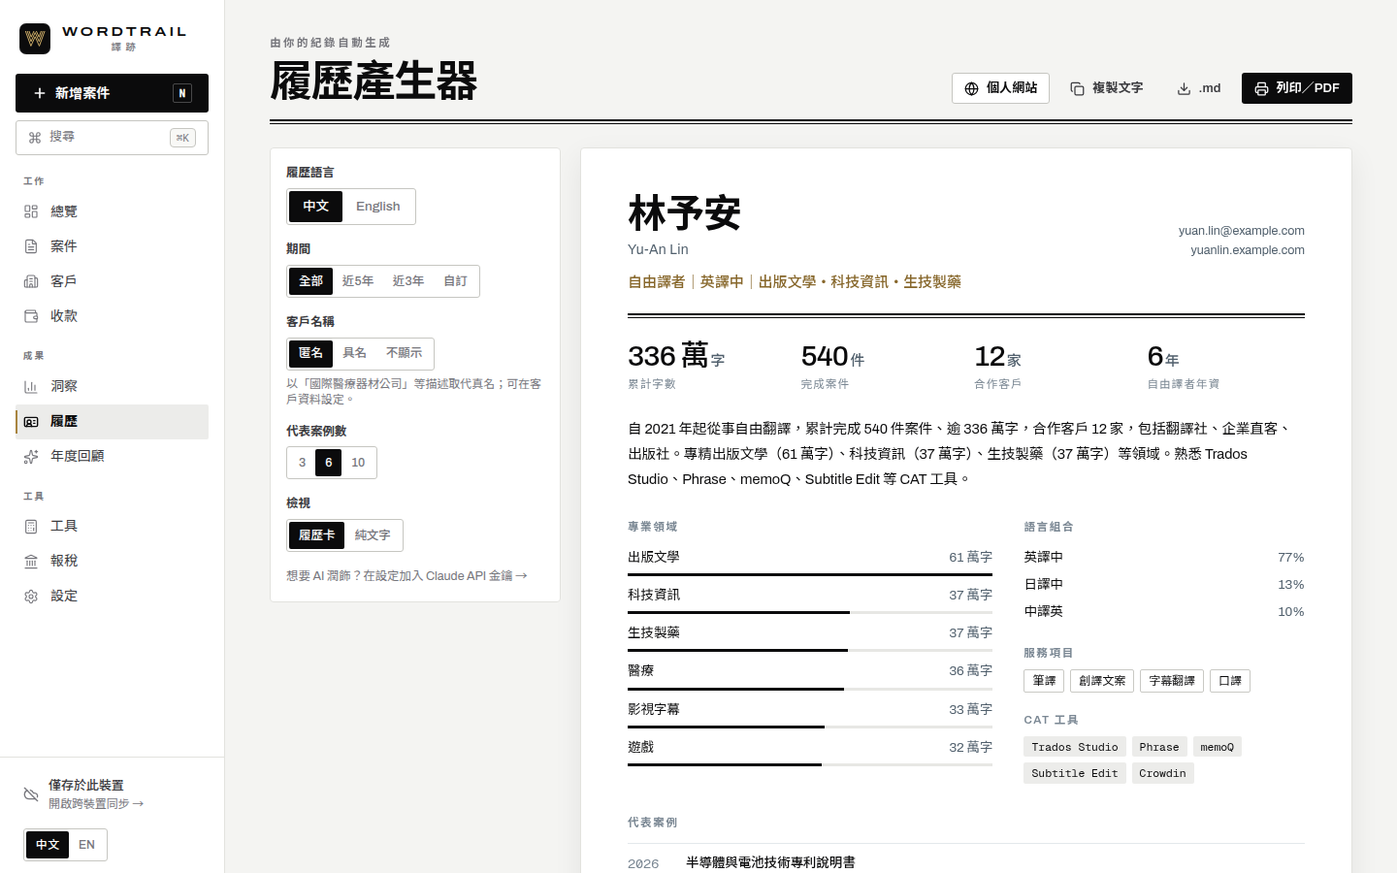
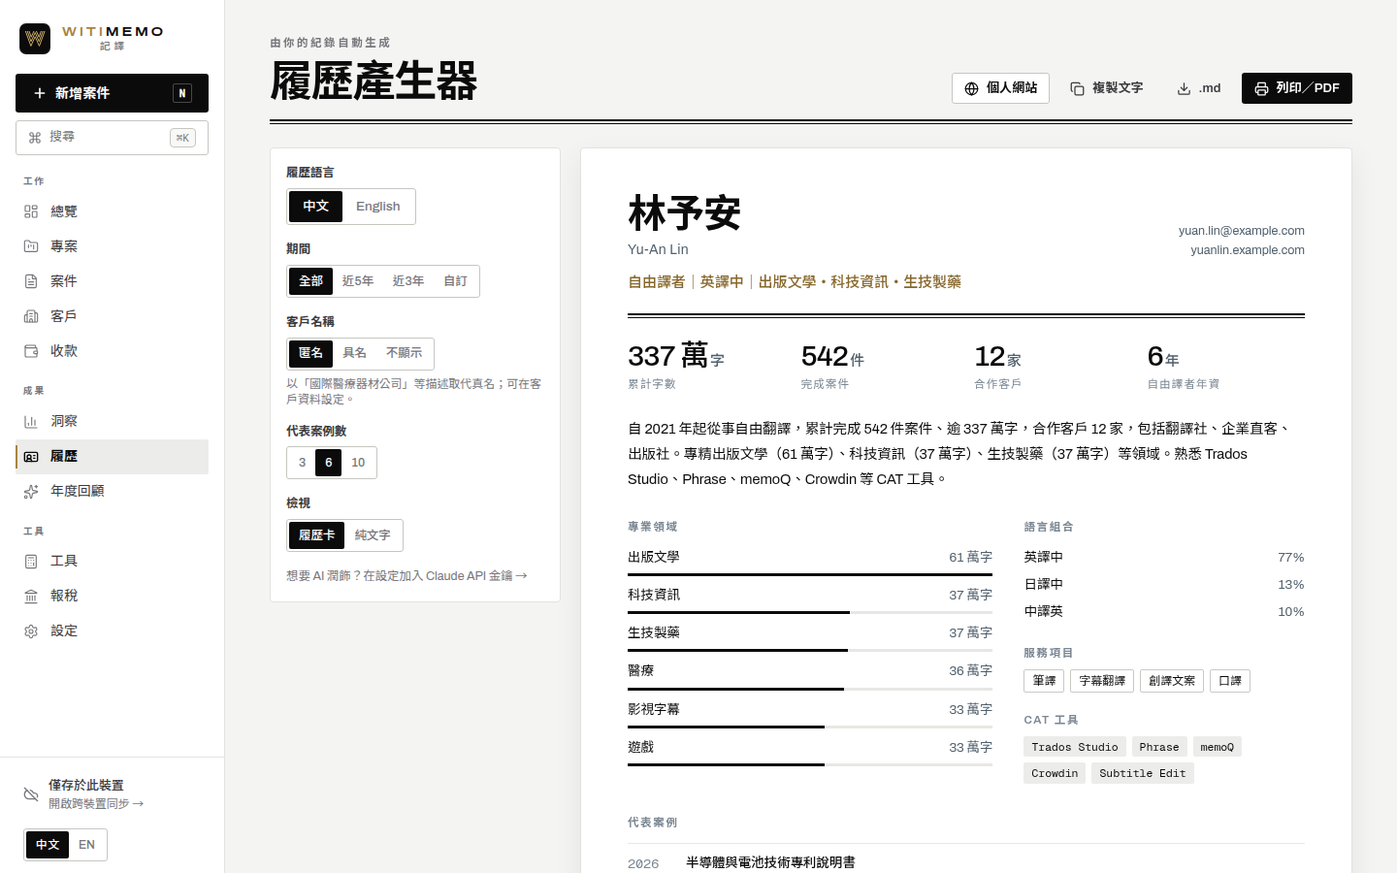
Rename the app to 記譯 Witimemo
Witimemo stands for Works in Translation & Interpretation, and memo
matches 記 in the Chinese name. The name is spelled plainly in text and
drawn as a two-tone wordmark, WITI in gold and MEMO in ink, in the
sidebar, opening doors, onboarding, invoices, year in review and its
share card. The W mark is unchanged.

The page title and the iOS home-screen name follow the interface
language. Stored identifiers keep the old name (the IndexedDB database,
the backup and sync envelope markers, the sync gist file and calendar
event IDs) so existing data, backups, sync and calendar subscriptions
keep working.

Screenshots, the social preview and the README are regenerated.

Claude-Session: https://claude.ai/code/session_01BSnYqFpE9myNxdJxNHHP4C

diff --git a/src/pages/Wrapped.tsx b/src/pages/Wrapped.tsx
@@ -10,7 +10,7 @@ import { money, num, pct } from '../ui/format';
 import { cx } from '../ui/kit';
 import { useUI } from '../ui/store';
 import { Medallion, SunburstRays } from '../app/Stamps';
-import { BRAND_GOLD, W_LINES, WGlyph } from '../app/Logo';
+import { BRAND_GOLD, BRAND_ZH, BrandName, W_LINES, WGlyph } from '../app/Logo';
 import { downloadFile } from '../features/download';
 
 const PERSONA: Record<Persona, { zh: string; en: string; zhBody: string; enBody: string }> = {
@@ -245,7 +245,7 @@ export function Wrapped() {
     // 0 cover
     <div key="c" className="flex h-full flex-col items-center justify-center text-center">
       <In className="relative grid place-items-center">
-        <Medallion top={`WORDTRAIL · ${year}`} center="" bottom={tx('年度回顧', 'YEAR IN REVIEW')} color={BRAND_GOLD} size={196} rays={72} />
+        <Medallion top={`WITIMEMO · ${year}`} center="" bottom={tx('年度回顧', 'YEAR IN REVIEW')} color={BRAND_GOLD} size={196} rays={72} />
         <WGlyph size={62} color={BRAND_GOLD} className="absolute" />
       </In>
       <In d={250}>
@@ -307,7 +307,7 @@ export function Wrapped() {
     // 3 persona
     <div key="p" className="flex h-full flex-col justify-center">
       <In className="flex items-center gap-4">
-        <Medallion top={tx('譯者人格', 'TRANSLATOR TYPE')} center={String(year)} bottom="WORDTRAIL" color={BRAND_GOLD} size={92} rays={40} />
+        <Medallion top={tx('譯者人格', 'TRANSLATOR TYPE')} center={String(year)} bottom="WITIMEMO" color={BRAND_GOLD} size={92} rays={40} />
         {r.topDomain && (
           <p className="text-[16px] leading-snug text-ink-2">
             {tx(`你最常翻譯的是「${domainLabel(r.topDomain.key, 'zh-TW')}」，佔全年 ${pct(r.topDomain.share)}`, `Your top field was ${domainLabel(r.topDomain.key, 'en')}: ${pct(r.topDomain.share)} of your words`)}
@@ -424,7 +424,7 @@ export function Wrapped() {
         <div className="relative flex items-center justify-between">
           <span className="flex items-center gap-2.5">
             <WGlyph size={22} color={BRAND_GOLD} />
-            <span className="font-wide text-[10px] tracking-[0.3em]">Wordtrail</span>
+            <BrandName gold={BRAND_GOLD} className="font-wide text-[10px] tracking-[0.3em]" />
           </span>
           <span className="font-wide text-[10px] tracking-[0.3em] text-gold">{year}</span>
         </div>
@@ -489,7 +489,7 @@ export function Wrapped() {
           <span className="flex items-center gap-2.5">
             <WGlyph size={18} color={BRAND_GOLD} stroke={3.6} />
             <span className="font-wide text-[10px] tracking-[0.3em] text-ink-2">
-              Wordtrail <span className="text-gold">· {year}</span>
+              <BrandName gold={BRAND_GOLD} /> <span className="text-gold">· {year}</span>
             </span>
           </span>
           <div className="flex gap-1">
@@ -536,7 +536,7 @@ export function Wrapped() {
               className={goldBtn}
               onClick={async () => {
                 const blob = await (await fetch(shareUrl)).blob();
-                void downloadFile(`wordtrail-${year}.png`, blob, 'image/png');
+                void downloadFile(`witimemo-${year}.png`, blob, 'image/png');
               }}
             >
               <Download size={17} /> {tx('下載／分享', 'Save / share')}
@@ -673,11 +673,11 @@ async function renderShareCard(r: YearReview, o: { year: number; persona: string
   c.width = W;
   c.height = H;
   const g = c.getContext('2d')!;
-  const zhText = o.persona + o.domain + o.name + '譯跡我的翻譯足跡個字案件客戶工作日主力領域譯者人格年度回顧';
+  const zhText = o.persona + o.domain + o.name + BRAND_ZH + '我的翻譯足跡個字案件客戶工作日主力領域譯者人格年度回顧';
   try {
     await Promise.all([
-      document.fonts.load('500 80px "Archivo"', 'WORDTRAIL0123456789,.'),
-      document.fonts.load('600 80px "Archivo"', 'WORDTRAIL'),
+      document.fonts.load('500 80px "Archivo"', 'WITIMEO0123456789,.'),
+      document.fonts.load('600 80px "Archivo"', 'WITIMEO'),
       document.fonts.load('500 60px "Noto Sans TC"', zhText),
       document.fonts.load('700 60px "Noto Sans TC"', zhText),
     ]);
@@ -697,6 +697,13 @@ async function renderShareCard(r: YearReview, o: { year: number; persona: string
     g.textAlign = opts.align ?? 'left';
     style(opts.stretch ?? 'normal', opts.spacing ?? 0);
     g.fillText(s, x, y);
+  };
+  /** The two-tone name; returns where it ends. */
+  const brand = (x: number, y: number, font: string, spacing: number, gold: string, ink: string) => {
+    text('WITI', x, y, font, gold, { stretch: 'expanded', spacing });
+    const x2 = x + g.measureText('WITI').width;
+    text('MEMO', x2, y, font, ink, { stretch: 'expanded', spacing });
+    return x2 + g.measureText('MEMO').width;
   };
   const hline = (y: number, w = 1.5, color = 'rgba(255,255,255,0.18)') => {
     g.fillStyle = color;
@@ -744,8 +751,8 @@ async function renderShareCard(r: YearReview, o: { year: number; persona: string
     g.stroke();
   }
   g.restore();
-  text('WORDTRAIL', M + 104, 132, `600 26px ${sans}`, '#f2f2ef', { stretch: 'expanded', spacing: 7 });
-  text('譯跡', M + 104, 166, `500 20px ${sans}`, 'rgba(242,242,239,0.55)', { spacing: 10 });
+  brand(M + 104, 132, `600 26px ${sans}`, 7, GOLD, '#f2f2ef');
+  text(BRAND_ZH, M + 104, 166, `500 20px ${sans}`, 'rgba(242,242,239,0.55)', { spacing: 10 });
   text(String(o.year), W - M, 132, `600 26px ${sans}`, GOLD, { stretch: 'expanded', spacing: 12, align: 'right' });
   text(tx('年度回顧', 'YEAR IN REVIEW'), W - M, 166, `600 17px ${sans}`, 'rgba(242,242,239,0.55)', { stretch: 'expanded', spacing: 5, align: 'right' });
 
@@ -791,9 +798,10 @@ async function renderShareCard(r: YearReview, o: { year: number; persona: string
   if (o.domain) text(tx(`主力領域：${o.domain}`, `Top field: ${o.domain}`), M, 1162, `500 32px ${sans}`, 'rgba(242,242,239,0.82)');
 
   // footer
-  text('WORDTRAIL · 譯跡', M, H - 86, `600 20px ${sans}`, 'rgba(242,242,239,0.45)', { stretch: 'expanded', spacing: 6 });
+  const bx = brand(M, H - 86, `600 20px ${sans}`, 6, 'rgba(212,179,108,0.7)', 'rgba(242,242,239,0.45)');
+  text(` · ${BRAND_ZH}`, bx, H - 86, `600 20px ${sans}`, 'rgba(242,242,239,0.45)', { stretch: 'expanded', spacing: 6 });
   // the mark's three strokes, run out as speed lines
-  const tw = g.measureText('WORDTRAIL · 譯跡').width;
+  const tw = bx - M + g.measureText(` · ${BRAND_ZH}`).width;
   g.fillStyle = 'rgba(212,179,108,0.6)';
   [-102, -94, -86].forEach((y, k) => g.fillRect(M + tw + 28, H + y - 7, W - M * 2 - tw - 28, k === 1 ? 2 : 1));
   return c.toDataURL('image/png');

diff --git a/src/pages/Settings.tsx b/src/pages/Settings.tsx
@@ -114,7 +114,7 @@ export function SettingsPage({ section }: { section?: string }) {
 
   const exportJSON = async () => {
     const b = await exportBackup();
-    await downloadFile(`wordtrail-backup-${today}.json`, JSON.stringify(b), 'application/json');
+    await downloadFile(`witimemo-backup-${today}.json`, JSON.stringify(b), 'application/json');
   };
 
   const importJSON = async (f: File) => {
@@ -138,7 +138,7 @@ export function SettingsPage({ section }: { section?: string }) {
       } else await importBackup(data, 'merge');
       toast(tx(`已匯入 ${data.data.jobs.length} 個案件`, `Imported ${data.data.jobs.length} jobs`));
     } catch {
-      toast(tx('這不是譯跡的備份檔', 'That is not a Wordtrail backup file'));
+      toast(tx('這不是記譯的備份檔', 'That is not a Witimemo backup file'));
     }
   };
 
@@ -146,7 +146,7 @@ export function SettingsPage({ section }: { section?: string }) {
     const active = jobs.filter((j) => (j.status === 'active' || j.status === 'quote') && j.dueAt);
     if (!active.length) return toast(tx('目前沒有有截止日的案件', 'No upcoming deadlines'));
     void downloadFile(
-      `wordtrail-deadlines-${today}.ics`,
+      `witimemo-deadlines-${today}.ics`,
       buildICS(active.map((j) => ({ uid: j.id, title: tx(`交稿：${j.title}`, `Due: ${j.title}`), when: j.dueAt!, description: j.clientId ? clientMap.get(j.clientId)?.name : undefined }))),
       'text/calendar',
     );
@@ -413,12 +413,12 @@ export function SettingsPage({ section }: { section?: string }) {
           )}
         </Card>
 
-        <Card id="install" title={tx('安裝到手機與電腦', 'Install on phone and computer')} desc={tx('譯跡是可安裝的網頁 App：離線也能用，桌面與主畫面都有圖示。', 'Wordtrail is an installable web app: it works offline and gets its own icon.')}>
+        <Card id="install" title={tx('安裝到手機與電腦', 'Install on phone and computer')} desc={tx('記譯是可安裝的網頁 App：離線也能用，桌面與主畫面都有圖示。', 'Witimemo is an installable web app: it works offline and gets its own icon.')}>
           {install.installed ? (
             <p className="text-[14px] text-good">{tx('已安裝為 App ✓', 'Installed as an app ✓')}</p>
           ) : install.prompt ? (
             <Button variant="primary" icon={<Smartphone size={16} />} onClick={() => void install.prompt!.prompt()}>
-              {tx('安裝譯跡', 'Install Wordtrail')}
+              {tx('安裝記譯', 'Install Witimemo')}
             </Button>
           ) : null}
           <ul className="mt-3 grid gap-3 text-[13.5px] leading-relaxed text-ink-2 sm:grid-cols-3">
@@ -440,9 +440,12 @@ export function SettingsPage({ section }: { section?: string }) {
           </ul>
         </Card>
 
-        <Card id="about" title={tx('關於譯跡', 'About Wordtrail')}>
+        <Card id="about" title={tx('關於記譯', 'About Witimemo')}>
           <div className="grid gap-4 text-[13.5px] leading-relaxed text-ink-2 sm:grid-cols-2">
             <div>
+              <p className="mb-2 font-medium text-ink">
+                記譯 Witimemo <span className="font-normal text-muted">· Works in Translation &amp; Interpretation</span>
+              </p>
               <p>{tx('為自由譯者設計的工作紀錄 App。所有資料預設只存在你的裝置；開啟同步後以端對端加密存在你自己的 GitHub。沒有追蹤、沒有廣告、沒有伺服器。', 'A work log designed for freelance translators. Data lives on your device by default; with sync it is end-to-end encrypted in your own GitHub account. No tracking, no ads, no servers.')}</p>
               <p className="mt-2 font-mono text-[12px] text-muted">v{__APP_VERSION__}</p>
             </div>

diff --git a/src/pages/Onboarding.tsx b/src/pages/Onboarding.tsx
@@ -8,7 +8,7 @@ import { setLang, tx } from '../i18n';
 import { Button, Field, Input, Segmented } from '../ui/kit';
 import { useUI } from '../ui/store';
 import { CurrencySelect } from '../features/common';
-import { BRAND_GOLD, WGlyph } from '../app/Logo';
+import { BRAND_GOLD, BRAND_NAME, BRAND_TAGLINE, BRAND_ZH, BrandName, WGlyph } from '../app/Logo';
 import { SunburstRays } from '../app/Stamps';
 
 export function Onboarding() {
@@ -55,13 +55,16 @@ export function Onboarding() {
         <div className="relative flex items-center gap-3">
           <WGlyph size={34} color={BRAND_GOLD} />
           <span className="leading-none">
-            <span className="font-wide block text-[13px] tracking-[0.26em]">Wordtrail</span>
-            <span className="mt-1 block text-[10.5px] tracking-[0.42em] text-muted">譯跡</span>
+            <BrandName gold={BRAND_GOLD} className="font-wide block text-[12.5px] tracking-[0.26em]" />
+            <span className="mt-1 block text-[10.5px] tracking-[0.42em] text-muted">
+              {BRAND_ZH}
+              <span className="ml-2 hidden tracking-[0.08em] sm:inline">· {BRAND_TAGLINE}</span>
+            </span>
           </span>
         </div>
         <div className="relative mt-16 max-w-[560px] lg:mt-24">
           <div className="font-wide text-[11px] tracking-[0.3em]" style={{ color: BRAND_GOLD }}>
-            {tx('給自由譯者的工作紀錄', 'A work log for freelance translators')}
+            {tx('給筆譯與口譯者的工作紀錄', 'A work log for translators & interpreters')}
           </div>
           <h1 className="font-display mt-5 text-[46px] leading-[1.02] sm:text-[64px] lg:text-[76px]">{tx('每一個字，都算數。', 'Every word counts.')}</h1>
           <p className="mt-6 max-w-[46ch] text-[16px] leading-relaxed text-ink-2">
@@ -127,7 +130,7 @@ export function Onboarding() {
                   navigate('/settings/sync');
                 }}
               >
-                {tx('我已經在其他裝置使用 Wordtrail', 'I already use Wordtrail on another device')}
+                {tx(`我已經在其他裝置使用${BRAND_ZH}`, `I already use ${BRAND_NAME} on another device`)}
               </button>
             )}
           </div>

diff --git a/src/app/Logo.tsx b/src/app/Logo.tsx
@@ -2,12 +2,16 @@ import { useId } from 'react';
 import { cx } from '../ui/kit';
 
 // The mark: a W drawn in three parallel lines, cut flat at the cap height —
-// Art Deco inline lettering that doubles as speed lines, the “trail”.
+// Art Deco inline lettering that doubles as speed lines.
 export const W_LINES = [
   '8.2,2.17 19.54,33.59 32,5.8 44.46,33.59 55.8,2.17',
   '3.12,4 19,48 32,19 45,48 60.88,4',
   '-1.96,5.83 18.46,62.41 32,32.2 45.54,62.41 65.96,5.83',
 ];
+
+export const BRAND_NAME = 'Witimemo';
+export const BRAND_ZH = '記譯';
+export const BRAND_TAGLINE = 'Works in Translation & Interpretation';
 
 export const BRAND_INK = '#0b0b0c';
 export const BRAND_GOLD = '#d4b36c';
@@ -43,13 +47,25 @@ export function LogoMark({ size = 32, className }: { size?: number; className?: 
   );
 }
 
+/** WITI in gold, MEMO in the text colour: the acronym (Works in Translation & Interpretation) shows in the lettering. */
+export function BrandName({ gold = 'var(--gold)', className }: { gold?: string; className?: string }) {
+  return (
+    <span className={className}>
+      <span className="sr-only">{BRAND_NAME}</span>
+      <span aria-hidden>
+        <span style={{ color: gold }}>WITI</span>MEMO
+      </span>
+    </span>
+  );
+}
+
 export function Wordmark({ className, compact }: { className?: string; compact?: boolean }) {
   return (
     <span className={cx('inline-flex items-center gap-3', className)}>
       <LogoMark size={compact ? 28 : 32} />
       <span className="leading-none">
-        <span className="font-wide block text-[13.5px] tracking-[0.22em] text-ink">Wordtrail</span>
-        <span className="mt-1 block text-[10.5px] font-medium tracking-[0.42em] text-muted">譯跡</span>
+        <BrandName className="font-wide block text-[12.5px] tracking-[0.22em] text-ink" />
+        <span className="mt-1 block text-[10.5px] font-medium tracking-[0.42em] text-muted">{BRAND_ZH}</span>
       </span>
     </span>
   );

diff --git a/src/app/Overture.tsx b/src/app/Overture.tsx
@@ -6,7 +6,7 @@ import { useCallback, useEffect, useRef, useState } from 'react';
 import { tx } from '../i18n';
 import { reducedMotion } from '../ui/motion';
 import { useUI } from '../ui/store';
-import { BRAND_GOLD, BRAND_INK, W_LINES } from './Logo';
+import { BRAND_GOLD, BRAND_INK, BRAND_ZH, BrandName, W_LINES } from './Logo';
 
 const KEY = 'wt-overture';
 
@@ -92,7 +92,7 @@ export function Overture({ ready }: { ready: boolean }) {
           style={{ background: `linear-gradient(180deg, transparent, ${BRAND_GOLD} 30%, ${BRAND_GOLD} 70%, transparent)`, animation: 'seamIn 1.4s ease .5s both' }}
         />
       )}
-      <span className="sr-only">{tx('譯跡 Wordtrail 載入中', 'Wordtrail is opening')}</span>
+      <span className="sr-only">{tx('記譯 Witimemo 載入中', 'Witimemo is opening')}</span>
     </div>
   );
 }
@@ -136,11 +136,11 @@ function DoorArt() {
               ))}
             </g>
           </svg>
-          <div className="font-wide mt-7 text-[17px] text-[#f2f2ef]" style={{ animation: 'trackIn 1.1s cubic-bezier(.2,.8,.2,1) .55s both' }}>
-            Wordtrail
+          <div className="font-wide mt-7 text-[16px] text-[#f2f2ef]" style={{ animation: 'trackIn 1.1s cubic-bezier(.2,.8,.2,1) .55s both' }}>
+            <BrandName gold={BRAND_GOLD} />
           </div>
           <div className="mt-2 text-[12px] tracking-[0.6em] text-[#8a8a90]" style={{ animation: 'fadeIn .8s ease .85s both' }}>
-            譯跡
+            {BRAND_ZH}
           </div>
           <div className="mt-6 h-[5px] w-[180px] border-y" style={{ borderColor: BRAND_GOLD, borderTopWidth: 2, animation: 'ruleIn .9s cubic-bezier(.2,.8,.2,1) .7s both' }} />
         </div>

diff --git a/src/sync/SyncSettings.tsx b/src/sync/SyncSettings.tsx
@@ -9,7 +9,7 @@ import { WrongPassphraseError } from './crypto';
 import { GistError } from './gist';
 import { ago, syncErrorText } from './SyncBadge';
 
-const TOKEN_URL = 'https://github.com/settings/tokens/new?scopes=gist&description=Wordtrail%20sync';
+const TOKEN_URL = 'https://github.com/settings/tokens/new?scopes=gist&description=Witimemo%20sync';
 
 export function SyncSettings() {
   const { status, login, lastSyncAt, error, lastStats } = useSync();
@@ -143,7 +143,7 @@ export function SyncSettings() {
             <div className="flex items-center justify-center gap-2 text-[14.5px] font-semibold text-ink sm:justify-start">
               <KeyRound size={16} className="text-accent" /> {tx('用另一台裝置掃描', 'Scan with your other device')}
             </div>
-            <p className="mt-1 text-[13px] leading-relaxed text-muted">{tx('手機相機掃描後會開啟譯跡，輸入同一組密語即可完成配對。連結本身已加密，沒有密語無法使用。', 'The camera opens Wordtrail; enter the same passphrase to finish. The link is encrypted and useless without the passphrase.')}</p>
+            <p className="mt-1 text-[13px] leading-relaxed text-muted">{tx('手機相機掃描後會開啟記譯，輸入同一組密語即可完成配對。連結本身已加密，沒有密語無法使用。', 'The camera opens Witimemo; enter the same passphrase to finish. The link is encrypted and useless without the passphrase.')}</p>
             <Button size="sm" variant="ghost" className="mt-2" icon={<Copy size={14} />} onClick={() => void copyText(pair.link)}>
               {tx('複製配對連結', 'Copy pairing link')}
             </Button>

diff --git a/src/features/portfolio.ts b/src/features/portfolio.ts
@@ -197,7 +197,7 @@ footer small{font-size:12px;color:#76767c}
   ${zh.projects.length ? `<section><h2>${both('代表案例', 'Selected projects')}</h2><div lang="zh-Hant">${projects(zh)}</div><div lang="en">${projects(en)}</div></section>` : ''}
   ${zh.clients.length ? `<section><h2>${both('合作客戶', 'Clients')}</h2><p class="clients" lang="zh-Hant">${esc(zh.clients.slice(0, 16).join('、'))}</p><p class="clients" lang="en">${esc(en.clients.slice(0, 16).join(' · '))}</p></section>` : ''}
 </main>
-<footer><div class="in"><div><div class="rule"></div><div class="contact">${contact.join('') || both('（在 Wordtrail 設定中加入聯絡方式）', '(Add contact details in Wordtrail settings)')}</div></div><small>© ${year} ${nameEn} · ${both('以譯跡 Wordtrail 製作', 'Made with Wordtrail')}</small></div></footer>
+<footer><div class="in"><div><div class="rule"></div><div class="contact">${contact.join('') || both('（在記譯設定中加入聯絡方式）', '(Add contact details in Witimemo settings)')}</div></div><small>© ${year} ${nameEn} · ${both('以記譯 Witimemo 製作', 'Made with Witimemo')}</small></div></footer>
 <script>
 (function(){var h=document.documentElement;function set(l){h.setAttribute('data-lang',l);h.lang=l==='zh'?'zh-Hant':'en';document.querySelectorAll('.lang button').forEach(function(b){b.setAttribute('aria-pressed',String(b.getAttribute('data-set')===l))});}
 document.querySelectorAll('.lang button').forEach(function(b){b.addEventListener('click',function(){set(b.getAttribute('data-set'))})});})();

diff --git a/index.html b/index.html
@@ -3,16 +3,16 @@
   <head>
     <meta charset="UTF-8" />
     <meta name="viewport" content="width=device-width, initial-scale=1, viewport-fit=cover" />
-    <title>譯跡 Wordtrail</title>
+    <title>記譯 Witimemo</title>
     <meta name="description" content="自由譯者的案件紀錄、收款追蹤、履歷產生與年度回顧。離線可用，跨裝置端對端加密同步。" />
     <meta name="theme-color" content="#f4f4f2" media="(prefers-color-scheme: light)" />
     <meta name="theme-color" content="#09090a" media="(prefers-color-scheme: dark)" />
     <meta name="apple-mobile-web-app-capable" content="yes" />
     <meta name="mobile-web-app-capable" content="yes" />
     <meta name="apple-mobile-web-app-status-bar-style" content="default" />
-    <meta name="apple-mobile-web-app-title" content="譯跡" />
+    <meta name="apple-mobile-web-app-title" content="記譯" />
     <meta property="og:type" content="website" />
-    <meta property="og:title" content="譯跡 Wordtrail" />
+    <meta property="og:title" content="記譯 Witimemo" />
     <meta property="og:description" content="每一個字，都算數。自由譯者的案件紀錄、收款追蹤、履歷產生與年度回顧。" />
     <meta property="og:image" content="og.png" />
     <meta name="twitter:card" content="summary_large_image" />

diff --git a/vite.config.ts b/vite.config.ts
@@ -29,8 +29,8 @@ export default defineConfig(({ mode }) => {
             injectRegister: false,
             includeAssets: ['favicon.svg', 'apple-touch-icon.png'],
             manifest: {
-              name: '譯跡 Wordtrail',
-              short_name: '譯跡',
+              name: '記譯 Witimemo',
+              short_name: '記譯',
               description: '自由譯者的案件紀錄、收款追蹤、履歷產生與年度回顧',
               lang: 'zh-Hant-TW',
               theme_color: '#0b0b0c',
@@ -83,8 +83,8 @@ export default defineConfig(({ mode }) => {
                 },
               },
               screenshots: [
-                { src: 'screenshots/wide.png', sizes: '1440x900', type: 'image/png', form_factor: 'wide', label: 'Wordtrail overview' },
-                { src: 'screenshots/narrow.png', sizes: '780x1688', type: 'image/png', form_factor: 'narrow', label: 'Wordtrail on a phone' },
+                { src: 'screenshots/wide.png', sizes: '1440x900', type: 'image/png', form_factor: 'wide', label: 'Witimemo overview' },
+                { src: 'screenshots/narrow.png', sizes: '780x1688', type: 'image/png', form_factor: 'narrow', label: 'Witimemo on a phone' },
               ],
             },
             workbox: {

diff --git a/src/pages/InvoiceView.tsx b/src/pages/InvoiceView.tsx
@@ -8,7 +8,7 @@ import { tx } from '../i18n';
 import { Button, Empty, Segmented } from '../ui/kit';
 import { useUI } from '../ui/store';
 import { printPage } from '../features/download';
-import { WGlyph } from '../app/Logo';
+import { BrandName, WGlyph } from '../app/Logo';
 import { Plaque } from '../app/Stamps';
 
 export function InvoiceView({ id }: { id: string }) {
@@ -80,7 +80,7 @@ export function InvoiceView({ id }: { id: string }) {
           <div>
             <div className="mb-3 flex items-center gap-2 text-[#0b0b0c]">
               <WGlyph size={22} color="#a8843f" />
-              <span className="font-wide text-[10px] tracking-[0.3em]">Wordtrail</span>
+              <BrandName gold="#a8843f" className="font-wide text-[10px] tracking-[0.3em]" />
             </div>
             <div className="font-display text-[40px] leading-none">{T('請款單', 'Invoice')}</div>
             <div className="mt-2 font-mono text-[13px] tracking-wide text-[#51606d]">{inv.number}</div>

diff --git a/src/db/db.ts b/src/db/db.ts
@@ -7,7 +7,8 @@ export interface LocalRow {
   value: unknown;
 }
 
-export class WordtrailDB extends Dexie {
+// 'wordtrail' predates the rename; renaming the database would strand everyone's data
+export class WitimemoDB extends Dexie {
   jobs!: EntityTable<Job, 'id'>;
   clients!: EntityTable<Client, 'id'>;
   sessions!: EntityTable<Session, 'id'>;
@@ -38,7 +39,7 @@ export class WordtrailDB extends Dexie {
 // unavailable, so it keeps everything in memory instead.
 const memory = __DEMO_BUILD__ ? await import('fake-indexeddb').then((m) => ({ indexedDB: m.indexedDB, IDBKeyRange: m.IDBKeyRange })) : undefined;
 
-export const db = new WordtrailDB('wordtrail', memory);
+export const db = new WitimemoDB('wordtrail', memory);
 
 export const uid = (): string => {
   if (typeof crypto !== 'undefined' && 'randomUUID' in crypto) return crypto.randomUUID();

diff --git a/src/domain/ics.ts b/src/domain/ics.ts
@@ -36,9 +36,9 @@ const fold = (line: string) => {
 
 const compact = (iso: string) => iso.replace(/[-:]/g, '');
 
-export const buildICS = (events: CalEvent[], calName = '譯跡 Wordtrail'): string => {
+export const buildICS = (events: CalEvent[], calName = '記譯 Witimemo'): string => {
   const stamp = new Date().toISOString().replace(/[-:]/g, '').replace(/\.\d{3}/, '');
-  const lines = ['BEGIN:VCALENDAR', 'VERSION:2.0', 'PRODID:-//Wordtrail//Translator Log//ZH', 'CALSCALE:GREGORIAN', `X-WR-CALNAME:${esc(calName)}`];
+  const lines = ['BEGIN:VCALENDAR', 'VERSION:2.0', 'PRODID:-//Witimemo//Translator Log//ZH', 'CALSCALE:GREGORIAN', `X-WR-CALNAME:${esc(calName)}`];
   for (const e of events) {
     lines.push('BEGIN:VEVENT', `UID:${e.uid}@wordtrail`, `DTSTAMP:${stamp}`);
     if (e.when.includes('T')) {
